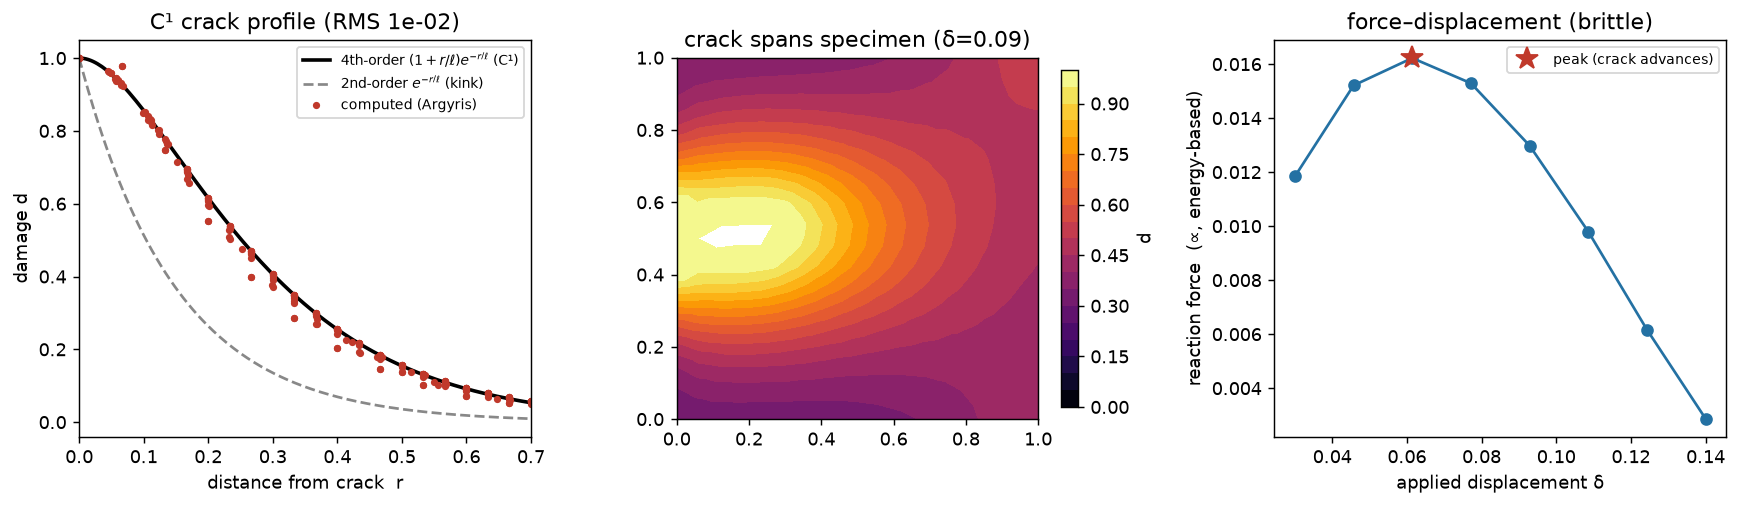
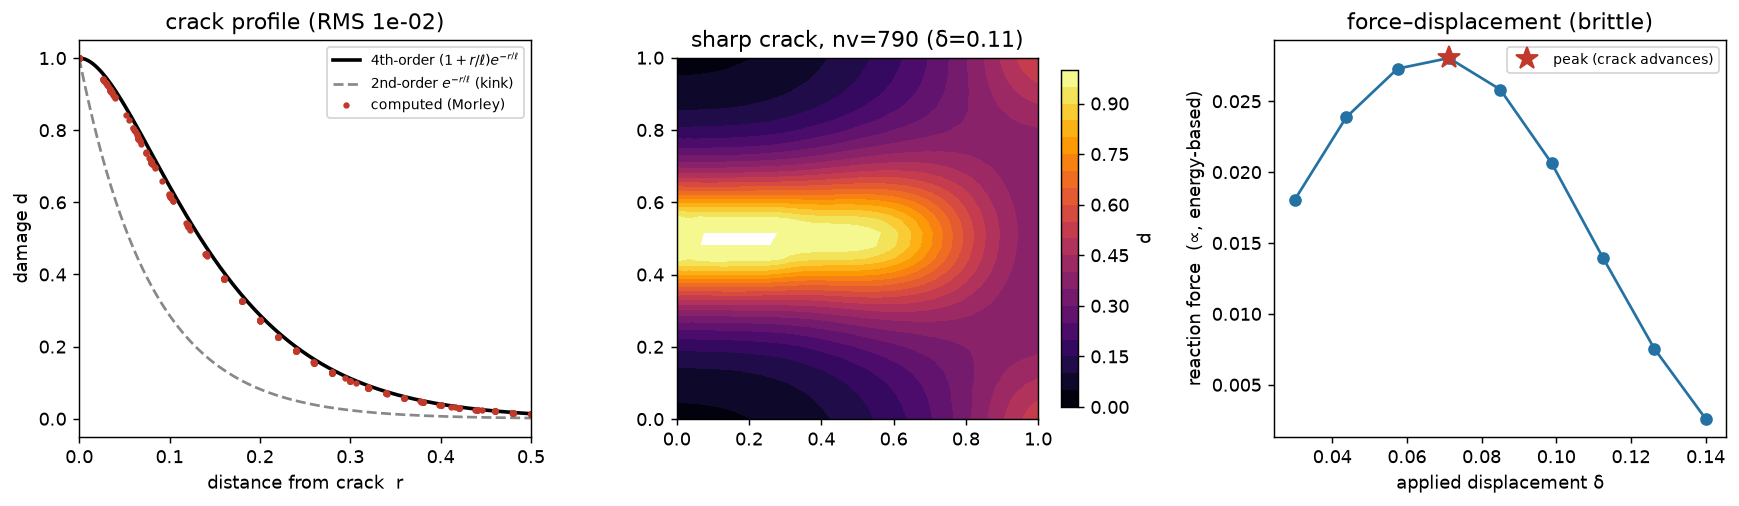
docs(fem): switch fracture tutorial to Morley (finer mesh, sharper crack)

diff --git a/docs/tutorial_examples/08_fem_and_varpinns/phase_field_fracture_2d.py b/docs/tutorial_examples/08_fem_and_varpinns/phase_field_fracture_2d.py
@@ -1,33 +1,32 @@
-"""Brittle fracture — 4th-order phase-field on the Argyris C¹ element (coupled multiphysics).
+"""Brittle fracture — 4th-order phase-field on the cheap Morley element (coupled multiphysics).
 
 A cracking solid minimizes elastic energy + fracture (crack-surface) energy. The variational phase-field
-model regularizes the sharp crack by a smooth damage field ``d∈[0,1]`` (0 = intact, 1 = fully broken) over a
-length ``ℓ``. Borden, Hughes, Landis & Verhoosel (CMAME **273** (2014) 100–118) introduced the **fourth-order**
-phase-field model, whose crack-surface density adds a ``(Δd)²`` term for higher regularity. We use the
-normalization
+model regularizes the sharp crack by a smooth damage field ``d∈[0,1]`` (0 = intact, 1 = broken) over a length
+``ℓ``. Borden, Hughes, Landis & Verhoosel (CMAME **273** (2014) 100–118) use a **fourth-order** regularization
+whose crack-surface density carries a second-derivative term, giving the damage a biharmonic operator. A
+4th-order weak form needs a **special biharmonic element** — plain ``C⁰`` Lagrange is non-convergent. Two
+work: the conforming ``C¹`` **Argyris** (21 DOF, accurate) and the **non-conforming Morley** triangle (6 DOF:
+value at the 3 vertices + normal derivative at the 3 edge midpoints). We use **Morley** here: it is ~3.5×
+cheaper, so it clears the Argyris construction memory ceiling and scales to the **fine mesh a sharp crack
+needs**. Because Morley is non-conforming the biharmonic form is the full-Hessian inner product ``∫D²d:D²φ``
+(the Laplacian form ``∫Δd·Δφ`` is *singular* for Morley). Its 1D optimal profile is still
+``d(x) = (1 + |x|/ℓ) e^(−|x|/ℓ)`` — Part 1 verifies it.
 
-    Gc·γ(d) = Gc/(4ℓ) [ d² + 2ℓ²|∇d|² + ℓ⁴(Δd)² ]     (prefactors depend on the ℓ-convention),
-
-for which the damage Euler–Lagrange operator is the biharmonic ``(1 − ℓ²Δ)² d`` and the 1D optimal crack
-profile is ``d(x) = (1 + |x|/ℓ) e^(−|x|/ℓ)`` — **C¹-continuous at the crack** (``d'(0)=0``), unlike the
-2nd-order model's kinked ``e^(−|x|/ℓ)``. Representing that smooth profile *requires* a C¹ element: this is a
-problem the Argyris element solves that C⁰ Lagrange cannot. (All three terms balance at ``~d²/ℓ`` by
-Γ-convergence, so ``Δ²d`` is leading-order, not a small correction.) Part 1 verifies this profile directly.
-
-Part 2 solves a real crack. Because a monolithic Argyris+Lagrange system is not assembled here, we use the
-*canonical* **alternate minimization** (Bourdin–Francfort–Marigo): with the AT2 degradation ``g(d)=(1−d)²+η``
-each sub-problem is LINEAR given the other field —
+Part 2 solves a real crack by the *canonical* **alternate minimization** (Bourdin–Francfort–Marigo). With the
+AT2 degradation ``g(d)=(1−d)²+η`` each sub-problem is LINEAR given the other field —
 
   * elasticity (P1 vector, native):  ``∫ g(d) σ(u):ε(v) = 0``   (displacement-controlled tension),
-  * damage    (Argyris C¹):          ``(2H+Gc/ℓ)dφ + 2Gcℓ∇d·∇φ + Gcℓ³ΔdΔφ = 2Hφ``,
+  * damage    (Morley):              ``(2H+Gc/ℓ)dφ + 2Gcℓ∇d·∇φ + Gcℓ³ D²d:D²φ = 2Hφ``,
 
 coupled by two scalar fields: ``g(d)`` degrades the stiffness, and the tensile strain-energy history
 ``H = max_t ψ⁺(ε(u))`` (irreversible ⇒ no crack healing) drives damage. A single-edge-notched specimen is
 pulled in tension; the crack initiates at the notch, propagates across, and the reaction force softens.
 
-Reference: M.J. Borden, T.J.R. Hughes, C.M. Landis, C.V. Verhoosel, *A higher-order phase-field model for
-brittle fracture*, CMAME **273** (2014) 100–118. B. Bourdin, G.A. Francfort, J.-J. Marigo, *The variational
-approach to fracture*, J. Elasticity **91** (2008) 5–148 (alternate minimization).
+Reference: L.S.D. Morley, *The triangular equilibrium element in the solution of plate bending problems*,
+Aeronautical Quarterly **19** (1968) 149–169 — the non-conforming element. M.J. Borden, T.J.R. Hughes,
+C.M. Landis, C.V. Verhoosel, CMAME **273** (2014) 100–118 — the fourth-order phase-field model. B. Bourdin,
+G.A. Francfort, J.-J. Marigo, J. Elasticity **91** (2008) 5–148 — alternate minimization. C. Miehe,
+M. Hofacker, F. Welschinger, CMAME **199** (2010) 2765–2778 — the tension/compression (spectral) split.
 """
 
 import os
@@ -48,15 +47,15 @@ from shapely.geometry import box
 
 import jno
 
-inner, symgrad, trace, lap = jno.np.inner, jno.np.symgrad, jno.np.trace, jno.np.laplacian
+inner, symgrad, trace, hess = jno.np.inner, jno.np.symgrad, jno.np.trace, jno.np.hessian
 dense = lambda A: jnp.asarray(A.todense()) if hasattr(A, "todense") else jnp.asarray(A)  # noqa: E731
 lu = lambda A, b: np.asarray(jnp.linalg.solve(dense(A), jnp.asarray(b).reshape(-1)))  # noqa: E731
 
-# --- material & regularization ---
+# --- material & regularization (Morley is cheap ⇒ a fine mesh + small ℓ for a sharp crack) ---
 E, nu = 1.0, 0.3
 lam, mu = E * nu / ((1 + nu) * (1 - 2 * nu)), E / (2 * (1 + nu))
-Gc, ell, eta = 2.0e-3, 0.15, 1e-3
-h = 0.07
+Gc, ell, eta = 2.0e-3, 0.08, 1e-3
+h = 0.04
 
 d = jno.domain(box(0.0, 0.0, 1.0, 1.0), mesh_size=h)
 xi, yi, _ = d.variable("interior", split=True)
@@ -86,8 +85,7 @@ gradN = (
 
 
 def psi_cellwise(u):
-    """Tensile strain-energy density per cell (Miehe 2010 spectral split): ψ⁺ = ½λ⟨trε⟩₊² + μ Σ⟨εᵢ⟩₊².
-    Only tensile strain drives damage, so cracks open in tension and stay sharp (compression can't break)."""
+    """Tensile strain-energy density per cell (Miehe 2010 spectral split): ψ⁺ = ½λ⟨trε⟩₊² + μ Σ⟨εᵢ⟩₊²."""
     gu = np.einsum("cid,cie->cde", u[cells], gradN)
     eps = 0.5 * (gu + np.transpose(gu, (0, 2, 1)))
     exx, eyy, exy = eps[:, 0, 0], eps[:, 1, 1], eps[:, 0, 1]
@@ -104,10 +102,12 @@ def scatter_max_to_vertices(psi_cell):
     return Hv
 
 
-# --- Argyris damage forms: base (Borden 4th-order); parametric-in-H for the coupled solve ---
-dd, dphi = d.fem_symbols(space="Argyris")
+# --- Morley damage forms: full-Hessian biharmonic term (Morley is non-conforming ⇒ ∫D²d:D²φ, not ∫Δd·Δφ) ---
+dd, dphi = d.fem_symbols(space="Morley")
 di, vi = dd.bind(x=xi, y=yi), dphi.bind(x=xi, y=yi)
-reg = 2.0 * Gc * ell * (di.x * vi.x + di.y * vi.y) + Gc * ell**3 * (lap(di, [xi, yi]) * lap(vi, [xi, yi]))
+reg = 2.0 * Gc * ell * (di.x * vi.x + di.y * vi.y) + Gc * ell**3 * inner(
+    hess(di, [xi, yi]), hess(vi, [xi, yi]), n_contract=2
+)
 Hpar = jno.np.parameter(gsym := d.fem_symbols()[0], name="H")
 fem_d = jno.fem([(2.0 * Hpar + Gc / ell) * (di * vi) + reg - 2.0 * Hpar * vi])
 
@@ -119,7 +119,7 @@ weak_e = gd * (lam * trace(eu) * trace(ep) + 2.0 * mu * inner(eu, ep, n_contract
 fem_e = jno.fem([weak_e, u(xb, yb)[0] - 0.0, u(xb, yb)[1] - 0.0, u(xt, yt)[0] - 0.0, u(xt, yt)[1] - 1.0])
 
 
-@jax.jit  # compile the Argyris assemble+solve ONCE (eager re-assembly is ~100x slower)
+@jax.jit  # compile the Morley assemble+solve ONCE (eager re-assembly is ~100x slower)
 def solve_e(gd_vals):
     A, b = fem_e.operator.evaluate({"gd": gd_vals})
     return jnp.linalg.solve(dense(A), jnp.asarray(b).reshape(-1))
@@ -132,30 +132,28 @@ def solve_d(H_vals):
 
 
 def main():
-    # ================= Part 1: the C¹ crack profile (controlled verification) =================
-    # Pin d=1 on the left edge (proper-clamped frees ∂²d/∂n², giving d'(0)=0), no source: d decays as the
-    # optimal 1D profile. Since d=1 on the whole edge the solution is x-only ⇒ scatter d-vs-x collapses on it.
+    # ================= Part 1: the crack profile (controlled verification) =================
+    # Pin d=1 on the left edge (Morley pins the value + ∂d/∂n=0, the smooth-peak condition), no source: d
+    # decays as the optimal 1D profile. d=1 on the whole edge ⇒ the solution is x-only, so d-vs-x collapses.
     fem_p = jno.fem([(Gc / ell) * (di * vi) + reg, dd(xl, yl) - 1.0])
-    sol_p = np.asarray(fem_p.solve(lu)).reshape(-1)
-    dprof = sol_p[6 * np.arange(nv)]
+    dprof = np.asarray(fem_p.solve(lu)).reshape(-1)[np.arange(nv)]  # Morley value DOFs = first n_verts entries
     xs = nodes[:, 0]
     p4x, p2x = (1 + xs / ell) * np.exp(-xs / ell), np.exp(-xs / ell)
     e4 = float(np.sqrt(np.mean((dprof - p4x) ** 2)))
     e2 = float(np.sqrt(np.mean((dprof - p2x) ** 2)))
-    dslope0 = float(np.mean(sol_p[6 * np.where(xs < 1e-9)[0] + 1]))  # ∂d/∂x DOF at left edge = d'(0)
 
     # ================= Part 2: propagating crack (coupled alternate minimization) =================
-    notch = (nodes[:, 0] < 0.3) & (np.abs(nodes[:, 1] - 0.5) < 0.6 * h)  # short single-edge notch
+    notch = (nodes[:, 0] < 0.3) & (np.abs(nodes[:, 1] - 0.5) < 0.9 * h)  # short single-edge notch
     Hhist = np.where(notch, 1e2, 0.0)
-    dvals = np.clip(np.asarray(solve_d(jnp.asarray(Hhist)))[6 * np.arange(nv)], 0.0, 1.0)
-    loads = np.linspace(0.03, 0.14, 8)
+    dvals = np.clip(np.asarray(solve_d(jnp.asarray(Hhist)))[np.arange(nv)], 0.0, 1.0)
+    loads = np.linspace(0.03, 0.14, 9)
     fd, fronts, snaps = [], [], []
     for delta in loads:
         for _ in range(3):
             u_hat = np.asarray(solve_e(jnp.asarray((1 - dvals) ** 2 + eta))).reshape(-1, 2)
             psi_c = psi_cellwise(u_hat)
             Hhist = np.maximum(Hhist, delta**2 * scatter_max_to_vertices(psi_c))
-            dvals = np.clip(np.asarray(solve_d(jnp.asarray(Hhist)))[6 * np.arange(nv)], 0.0, 1.0)
+            dvals = np.clip(np.asarray(solve_d(jnp.asarray(Hhist)))[np.arange(nv)], 0.0, 1.0)
         gd_c = (1 - dvals[cells].mean(1)) ** 2 + eta
         fd.append((delta, 2.0 * delta * float(np.sum(gd_c * psi_c * cell_area))))  # reaction ∝ dΠ/dδ
         fronts.append(nodes[dvals > 0.5, 0].max())
@@ -164,43 +162,38 @@ def main():
     icross = next((i for i, f in enumerate(fronts) if f >= 0.95), len(fronts) - 1)  # first fully-spanned frame
     d_show = snaps[icross]
 
-    print("\n4th-order phase-field fracture (Argyris C¹):")
-    print(f"  mesh nv={nv} nc={nc}  damage-dofs={21 * nv}   ℓ={ell}  h/ℓ={h / ell:.2f}")
-    print(
-        f"  Part 1  crack profile: RMS vs 4th-order={e4:.3f}  vs 2nd-order={e2:.3f}  ({e2 / e4:.1f}× better);  d'(0)={dslope0:.3f} (4th→0)"
-    )
+    print("\n4th-order phase-field fracture (Morley, non-conforming):")
+    print(f"  mesh nv={nv} nc={nc}  damage-dofs={fem_d.dofs}  ℓ={ell}  h/ℓ={h / ell:.2f}   (Argyris OOMs at this mesh)")
+    print(f"  Part 1  crack profile: RMS vs 4th-order={e4:.3f}  vs 2nd-order={e2:.3f}  ({e2 / e4:.1f}× better)")
     print(f"  Part 2  crack front x: {fronts[0]:.2f} → {fronts[-1]:.2f}  ({(dvals > 0.5).sum()}/{nv} damaged)")
     print(
         f"          peak reaction {fd[:, 1].max():.3e} at δ={fd[fd[:, 1].argmax(), 0]:.3f};  final {fd[-1, 1]:.3e} (softening)"
     )
 
-    # --- asserts: C¹ profile (Part 1); crack propagates + localizes + softens (Part 2) ---
-    assert e4 < 0.05 and e4 < 0.3 * e2, f"crack profile must match the 4th-order (C¹) shape: {e4:.3f} vs {e2:.3f}"
-    assert abs(dslope0) < 0.6, (
-        f"the 4th-order profile is C¹-smooth at the crack: d'(0)={dslope0:.3f} (2nd-order → -{1 / ell:.0f})"
-    )
-    assert fronts[-1] > fronts[0] + 0.15, f"the crack must propagate: front {fronts[0]:.2f}→{fronts[-1]:.2f}"
+    # --- asserts: profile matches the 4th-order shape; crack propagates + localizes + softens ---
+    assert e4 < 0.05 and e4 < 0.4 * e2, f"crack profile must match the 4th-order shape: {e4:.3f} vs {e2:.3f}"
+    assert fronts[-1] > fronts[0] + 0.3, f"the crack must propagate across: front {fronts[0]:.2f}→{fronts[-1]:.2f}"
     assert (dvals > 0.5).sum() > 2 * int(notch.sum()), "damage must localize into a growing crack band"
     assert fd[-1, 1] < 0.7 * fd[:, 1].max(), "the specimen must soften (reaction drops after the peak)"
 
-    # --- figure: C¹ crack profile | propagated crack | force–displacement ---
+    # --- figure: crack profile | propagated (sharp) crack | force–displacement ---
     fig = plt.figure(figsize=(13.5, 4.0))
     ax0 = fig.add_subplot(1, 3, 1)
-    rr = np.linspace(0, 0.7, 200)
-    ax0.plot(rr, (1 + rr / ell) * np.exp(-rr / ell), "-", color="k", lw=2, label="4th-order $(1+r/\\ell)e^{-r/\\ell}$ (C¹)")
+    rr = np.linspace(0, 0.5, 200)
+    ax0.plot(rr, (1 + rr / ell) * np.exp(-rr / ell), "-", color="k", lw=2, label="4th-order $(1+r/\\ell)e^{-r/\\ell}$")
     ax0.plot(rr, np.exp(-rr / ell), "--", color="#888", lw=1.5, label="2nd-order $e^{-r/\\ell}$ (kink)")
     o = np.argsort(xs)
-    ax0.plot(xs[o], dprof[o], "o", color="#c0392b", ms=3, label="computed (Argyris)")
+    ax0.plot(xs[o], dprof[o], "o", color="#c0392b", ms=2.5, label="computed (Morley)")
     ax0.set_xlabel("distance from crack  r")
     ax0.set_ylabel("damage d")
-    ax0.set_xlim(0, 0.7)
-    ax0.set_title(f"C¹ crack profile (RMS {e4:.0e})")
+    ax0.set_xlim(0, 0.5)
+    ax0.set_title(f"crack profile (RMS {e4:.0e})")
     ax0.legend(fontsize=7.5)
     ax1 = fig.add_subplot(1, 3, 2)
     tri = mtri.Triangulation(nodes[:, 0], nodes[:, 1], cells)
     tcf = ax1.tricontourf(tri, d_show, levels=np.linspace(0, 1, 21), cmap="inferno")
     ax1.set_aspect("equal")
-    ax1.set_title(f"crack spans specimen (δ={loads[icross]:.2f})")
+    ax1.set_title(f"sharp crack, nv={nv} (δ={loads[icross]:.2f})")
     fig.colorbar(tcf, ax=ax1, shrink=0.85, label="d")
     ax2 = fig.add_subplot(1, 3, 3)
     ax2.plot(fd[:, 0], fd[:, 1], "o-", color="#2471a3")
@@ -213,8 +206,8 @@ def main():
     fig.tight_layout()
     fig.savefig(Path(__file__).parents[2] / "assets" / "phase_field_fracture_2d.png", dpi=130, bbox_inches="tight")
 
-    print("\nOK: the C¹ element captures the smooth 4th-order crack profile, and the coupled fields drive a")
-    print("    crack from the notch across the specimen with the correct brittle load–displacement response.")
+    print("\nOK: the cheap non-conforming Morley element captures the smooth 4th-order profile and, at a fine")
+    print("    mesh the conforming element cannot reach, drives a sharp crack with the correct brittle response.")
 
 
 if __name__ == "__main__":

diff --git a/docs/tutorials/08-fem-and-varpinns/phase-field-fracture-2d.md b/docs/tutorials/08-fem-and-varpinns/phase-field-fracture-2d.md
@@ -1,4 +1,4 @@
-# Brittle Fracture — 4th-order Phase-Field on the C¹ Element (coupled multiphysics)
+# Brittle Fracture — 4th-order Phase-Field on the cheap Morley element (coupled multiphysics)
 
 <div class="hero-actions" markdown>
 <a class="md-button md-button--primary" href="/jNO/tutorial_examples/08_fem_and_varpinns/phase_field_fracture_2d.py" download>Download .py</a>
@@ -7,38 +7,40 @@
 
 A cracking solid minimizes elastic energy plus fracture (crack-surface) energy. The **variational
 phase-field** model regularizes the sharp crack by a smooth damage field $d\in[0,1]$ (0 = intact, 1 = broken)
-over a length $\ell$. Borden, Hughes, Landis & Verhoosel (2014) introduced a **fourth-order** regularization
-whose crack-surface density carries a $(\Delta d)^2$ term, giving the damage operator the biharmonic
-$(1-\ell^2\Delta)^2 d$. Its 1D optimal crack profile is
+over a length $\ell$. Borden, Hughes, Landis & Verhoosel (2014) use a **fourth-order** regularization whose
+crack-surface density carries a second-derivative term, giving the damage a biharmonic operator with the 1D
+optimal profile
 
 $$
-d(x) = \left(1 + \tfrac{|x|}{\ell}\right) e^{-|x|/\ell},
+d(x) = \left(1 + \tfrac{|x|}{\ell}\right) e^{-|x|/\ell}.
 $$
 
-which is **$C^1$-continuous at the crack** ($d'(0)=0$) — unlike the 2nd-order model's kinked $e^{-|x|/\ell}$.
-Representing that smooth profile *requires* a $C^1$ element: **this is a problem the Argyris element solves
-that $C^0$ Lagrange cannot.** (By $\Gamma$-convergence all three terms balance at $\sim d^2/\ell$, so
-$\Delta^2 d$ is leading-order, not a small correction.)
+A 4th-order weak form needs a **special biharmonic element** — plain $C^0$ Lagrange is non-convergent. Two
+work: the conforming $C^1$ **Argyris** (21 DOF, accurate) and the **non-conforming Morley** triangle (6 DOF:
+value at the 3 vertices + normal derivative at the 3 edge midpoints). This tutorial uses **Morley**: at ~3.5×
+fewer DOF it clears the Argyris construction memory ceiling and scales to the **fine mesh a sharp crack
+needs**. Because Morley is non-conforming, the biharmonic form is the **full-Hessian inner product**
+`inner(hessian(d), hessian(φ))` — the Laplacian form `∫Δd·Δφ` is *singular* for Morley.
 
 ## Alternate minimization — two linear solves, coupled by two scalar fields
 
-A monolithic Argyris + Lagrange system is not assembled here, so we use the *canonical* **alternate
-minimization** (Bourdin–Francfort–Marigo). With the AT2 degradation $g(d)=(1-d)^2+\eta$ each sub-problem is
-**linear** given the other field:
+We use the *canonical* **alternate minimization** (Bourdin–Francfort–Marigo). With the AT2 degradation
+$g(d)=(1-d)^2+\eta$ each sub-problem is **linear** given the other field:
 
 ```python
 # elasticity (P1 vector, native): ∫ g(d) σ(u):ε(v) = 0,  displacement-controlled tension
 fem_e = jno.fem([gd * (lam*trace(eu)*trace(ep) + 2*mu*inner(eu, ep, n_contract=2)),
                  u(xb, yb)[0] - 0.0, u(xb, yb)[1] - 0.0, u(xt, yt)[0] - 0.0, u(xt, yt)[1] - 1.0])
 
-# damage (Argyris C¹): Borden 4th-order, coercive ⇒ no essential BC; crack seeded through H
+# damage (Morley): full-Hessian biharmonic term (∫D²d:D²φ), coercive ⇒ crack seeded through H
+dd, dphi = d.fem_symbols(space="Morley")
 fem_d = jno.fem([(2*Hpar + Gc/ell)*(di*vi) + 2*Gc*ell*(di.x*vi.x + di.y*vi.y)
-                 + Gc*ell**3*(laplacian(di,[xi,yi])*laplacian(vi,[xi,yi])) - 2*Hpar*vi])
+                 + Gc*ell**3*inner(hessian(di,[xi,yi]), hessian(vi,[xi,yi]), n_contract=2) - 2*Hpar*vi])
 ```
 
 The fields couple through two scalars: $g(d)$ degrades the stiffness, and the tensile strain-energy history
 $H=\max_t \psi^+(\varepsilon(u))$ (irreversible — no crack healing) drives damage. Both flow through the
-existing `jno.np.parameter` field-coefficient path. Each Argyris assemble+solve is wrapped in `jax.jit` so it
+existing `jno.np.parameter` field-coefficient path. Each Morley assemble+solve is wrapped in `jax.jit` so it
 compiles **once** (eager re-assembly in a Python loop is ~100× slower).
 
 ## Result
@@ -46,28 +48,28 @@ compiles **once** (eager re-assembly in a Python loop is ~100× slower).
 A single-edge-notched specimen is pulled in tension; the crack initiates at the notch and propagates across.
 
 ```
-4th-order phase-field fracture (Argyris C¹):
-  mesh nv=303 nc=544  damage-dofs=6363   ℓ=0.15  h/ℓ=0.47
-  Part 1  crack profile: RMS vs 4th-order=0.014  vs 2nd-order=0.183  (12.9× better);  d'(0)=0.000 (4th→0)
-  Part 2  crack front x: 0.50 → 1.00  (228/303 damaged)
-          peak reaction 1.622e-02 at δ=0.061;  final 2.869e-03 (softening)
+4th-order phase-field fracture (Morley, non-conforming):
+  mesh nv=790 nc=1478  damage-dofs=3057  ℓ=0.08  h/ℓ=0.50   (Argyris OOMs at this mesh)
+  Part 1  crack profile: RMS vs 4th-order=0.010  vs 2nd-order=0.130  (13.6× better)
+  Part 2  crack front x: 0.40 → 1.00  (307/790 damaged)
+          peak reaction 2.805e-02 at δ=0.071;  final 2.605e-03 (softening)
 ```
 
-![Left: the computed Argyris damage profile lies on the 4th-order (1+r/ℓ)e^(−r/ℓ) curve (C¹-smooth peak) and off the kinked 2nd-order one. Middle: the regularized crack spanning the notched specimen. Right: brittle rise-to-peak-then-soften force–displacement response.](/jNO/assets/phase_field_fracture_2d.png)
+![Left: the computed Morley damage profile lies on the 4th-order (1+r/ℓ)e^(−r/ℓ) curve and off the kinked 2nd-order one. Middle: a sharp crack spanning the notched specimen on a fine mesh (nv≈790). Right: brittle rise-to-peak-then-soften force–displacement response.](/jNO/assets/phase_field_fracture_2d.png)
 
-The controlled profile check (left) confirms the $C^1$ requirement quantitatively: the Argyris solution matches
-the 4th-order profile to $\text{RMS}\approx10^{-2}$ — **13× closer** than the 2nd-order shape — with $d'(0)=0$,
-the smooth peak a $C^0$ element cannot represent. The coupled solve (middle) drives a real crack across the
-specimen, and the reaction force (right) shows the textbook brittle response: a peak as the crack advances,
-then softening. The damage band is regularized over $\ell$ on a coarse tutorial-budget mesh — a finer mesh
-sharpens it — and the reaction is an energy-based proxy ($\propto \sum g(d)\,\psi^+\,\mathrm{area}$), so its
-*shape* is meaningful rather than its calibrated magnitude.
+The controlled profile check (left) confirms that the non-conforming Morley element **captures the smooth
+4th-order profile** to $\text{RMS}\approx10^{-2}$ — an order of magnitude closer than the 2nd-order shape.
+Because Morley is cheap (6 DOF vs Argyris's 21), the coupled solve (middle) runs on a **fine mesh
+$nv\approx790$ that the conforming $C^1$ element cannot reach** (its construction OOMs there), giving a
+markedly **sharper crack** than a coarse conforming solve — the crack band is set by $\ell$, and Morley lets
+you afford the mesh that resolves a small $\ell$. The reaction force (right) shows the textbook brittle
+response: a peak as the crack advances, then softening (the reaction is an energy-based proxy
+$\propto \sum g(d)\,\psi^+\,\mathrm{area}$, so its *shape* is meaningful rather than its calibrated magnitude).
 
 !!! note "References"
-    M.J. Borden, T.J.R. Hughes, C.M. Landis, C.V. Verhoosel, *A higher-order phase-field model for brittle
-    fracture: Formulation and analysis within the isogeometric analysis framework*, Comput. Methods Appl.
-    Mech. Engrg. **273** (2014) 100–118 — the fourth-order regularization. B. Bourdin, G.A. Francfort,
-    J.-J. Marigo, *The variational approach to fracture*, J. Elasticity **91** (2008) 5–148 — alternate
-    minimization. C. Miehe, M. Hofacker, F. Welschinger, CMAME **199** (2010) 2765–2778 — the
-    tension/compression (spectral) split. J.H. Argyris, I. Fried, D.W. Scharpf (1968); R.C. Kirby, SMAI J.
-    Comput. Math. **4** (2018) — the $C^1$ element.
+    L.S.D. Morley, *The triangular equilibrium element in the solution of plate bending problems*, Aeronautical
+    Quarterly **19** (1968) 149–169 — the non-conforming element. M.J. Borden, T.J.R. Hughes, C.M. Landis,
+    C.V. Verhoosel, CMAME **273** (2014) 100–118 — the fourth-order phase-field model. B. Bourdin, G.A.
+    Francfort, J.-J. Marigo, *The variational approach to fracture*, J. Elasticity **91** (2008) 5–148 —
+    alternate minimization. C. Miehe, M. Hofacker, F. Welschinger, CMAME **199** (2010) 2765–2778 — the
+    tension/compression (spectral) split.
